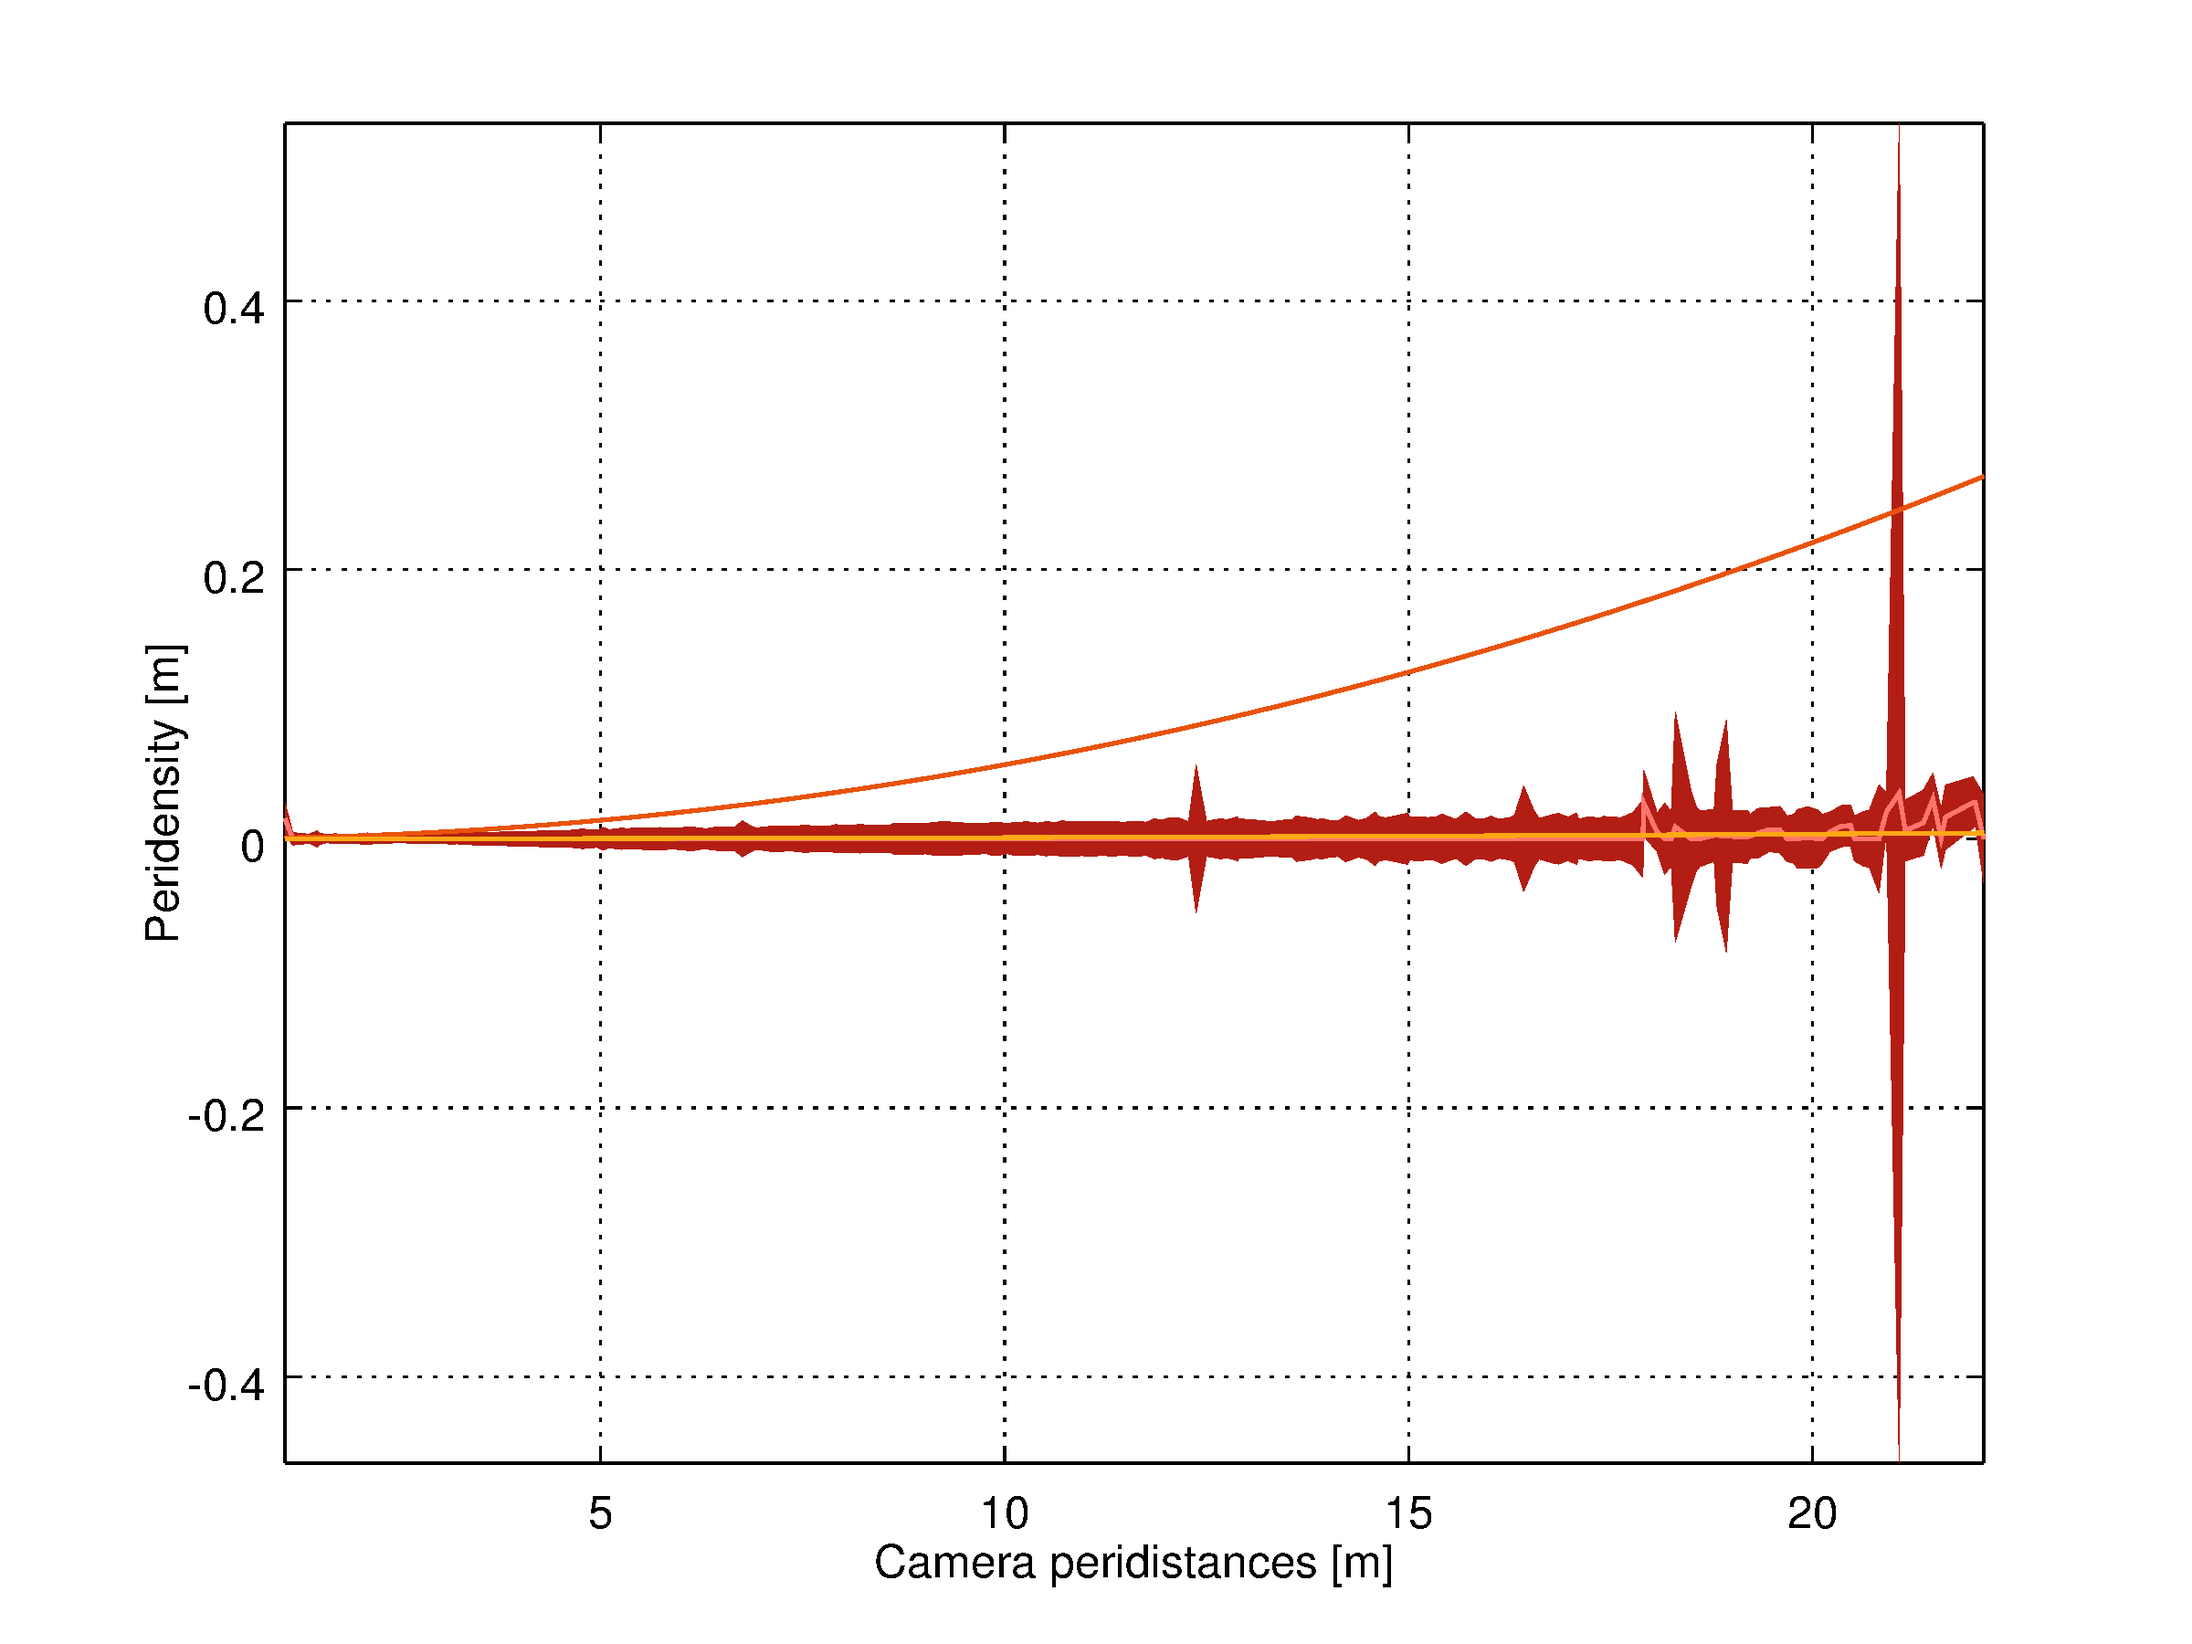
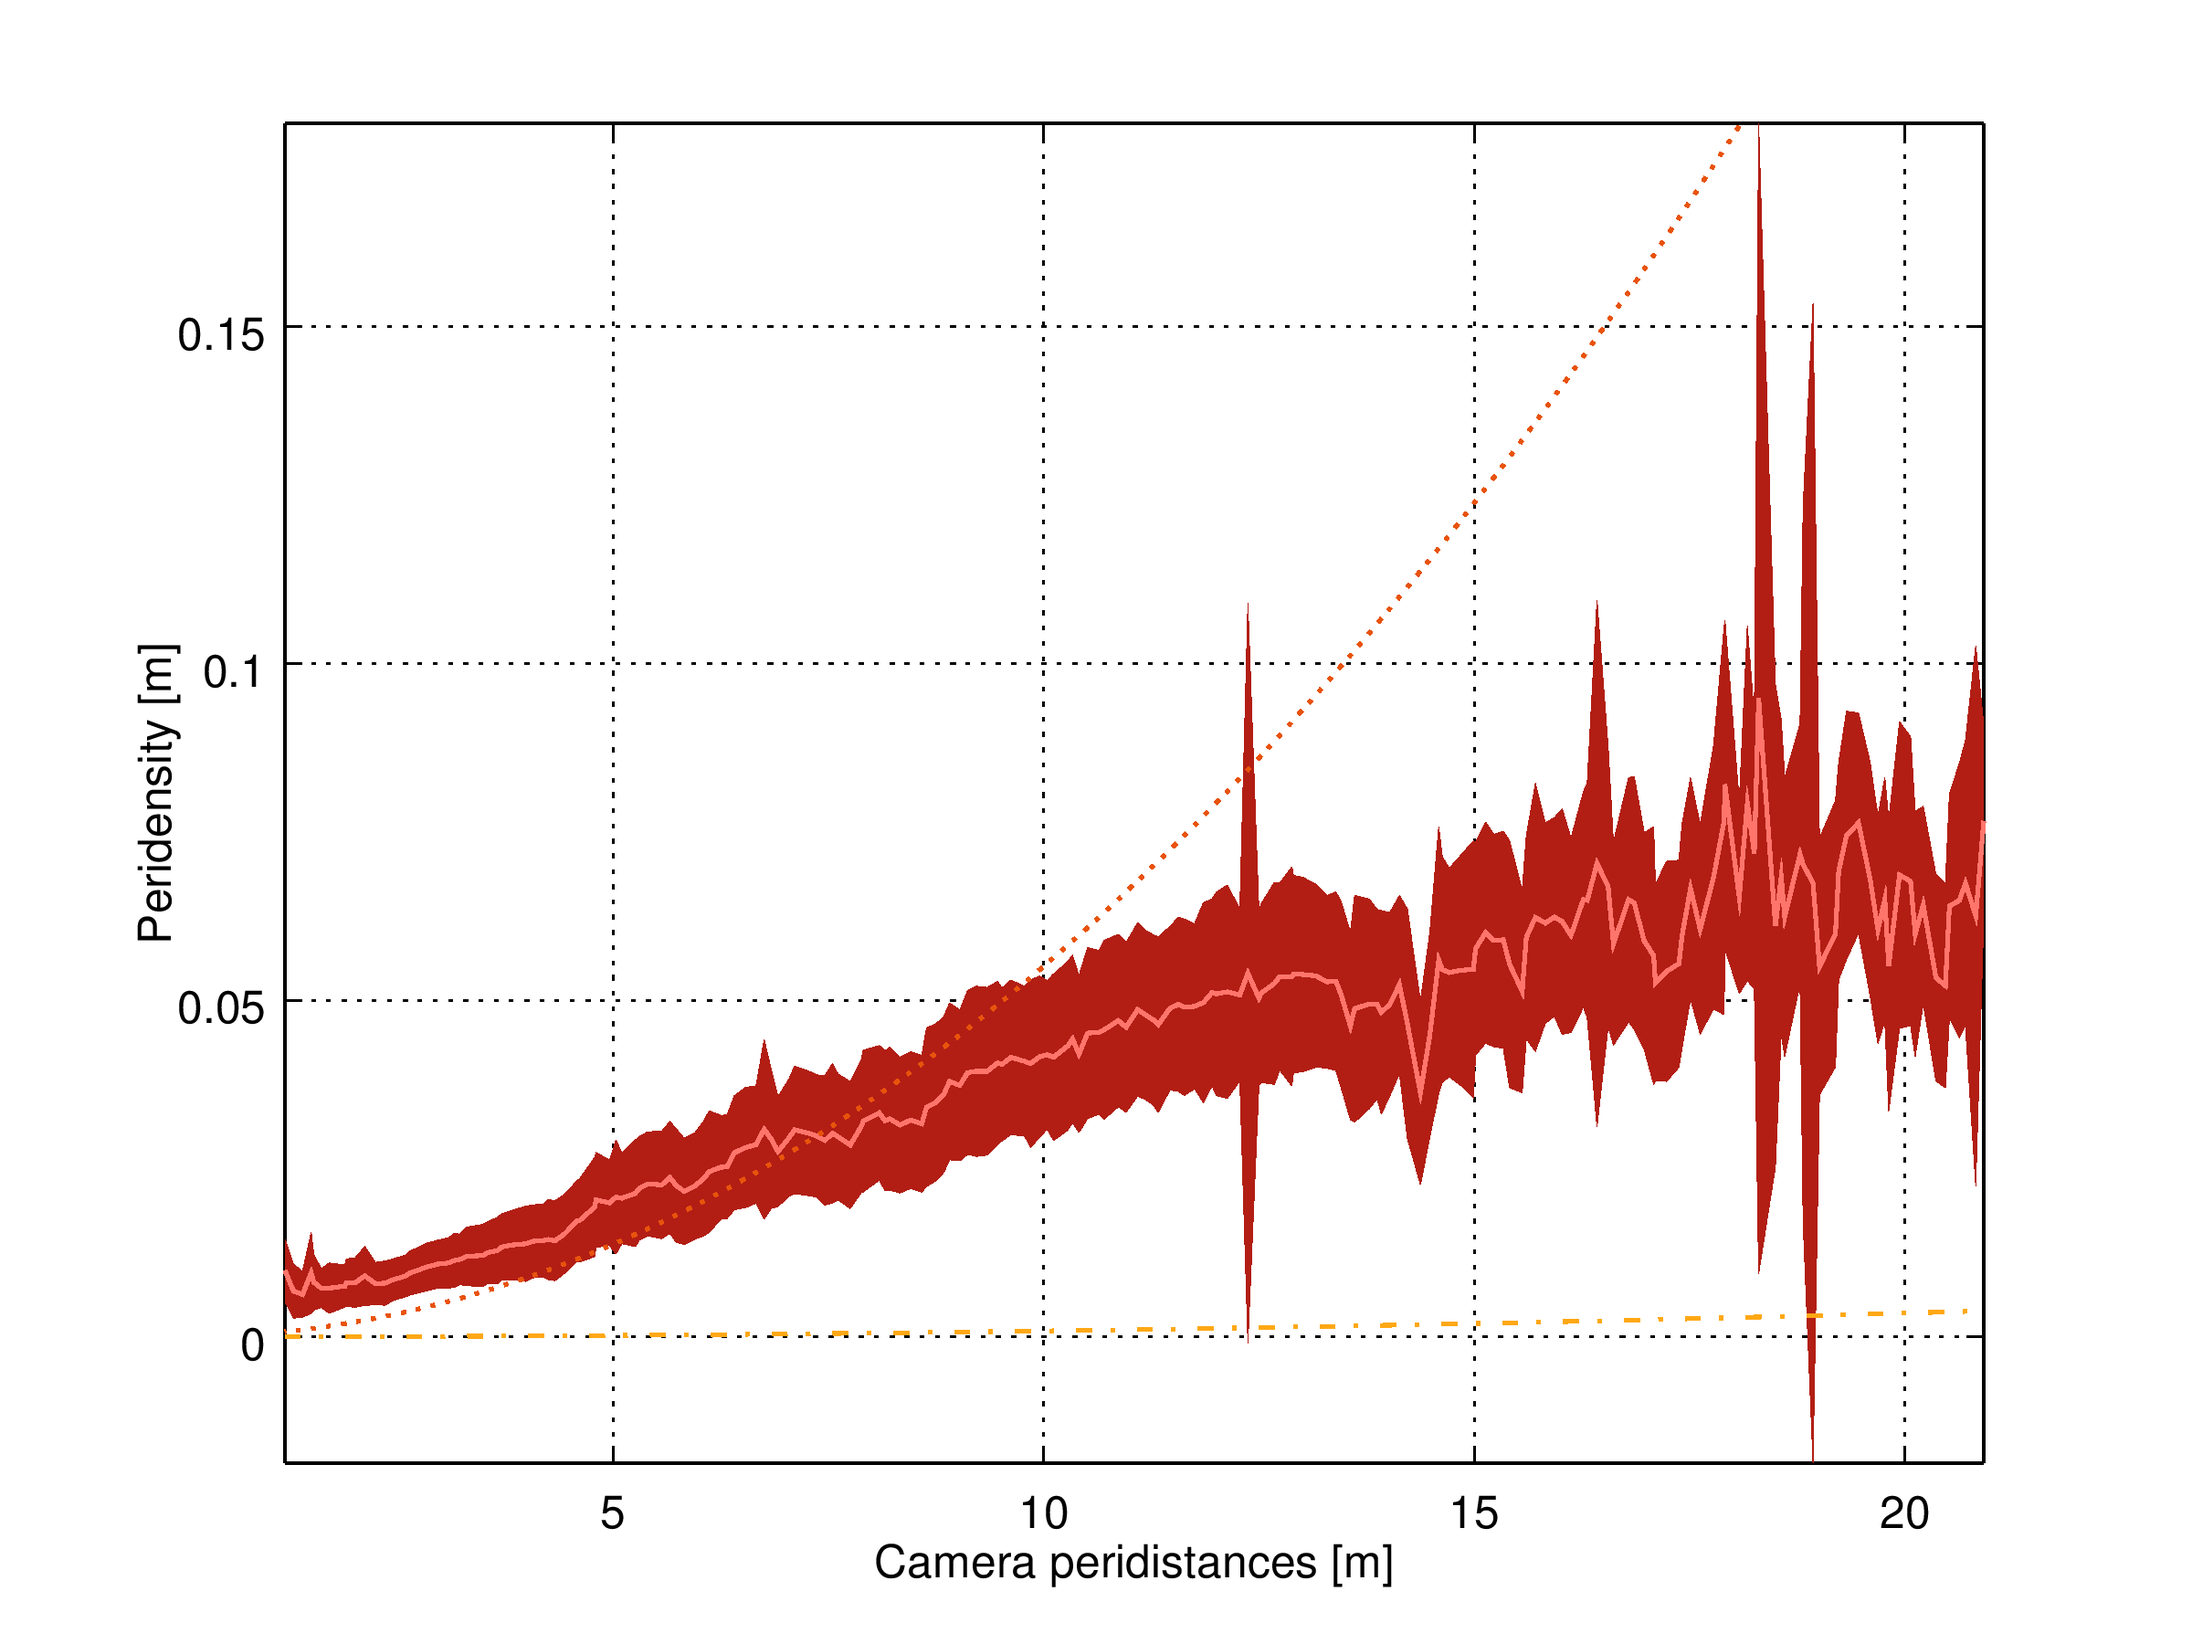
Updating peridensity figures

diff --git a/Certification/src/fl_peridensity_plot.m b/Certification/src/fl_peridensity_plot.m
@@ -73,14 +73,14 @@
         flk = 0; for fli = 1 : flSize
 
             % Detect empty bin %
-            if ( length( flStat{ fli } ) > 64 ) 
+            if ( length( flStat{ fli } ) > 16 ) 
 
                 % Update index %
                 flk += 1;
 
                 % Compute mean value of bin %
                 flPlot( flk, 1 ) = flDist{ fli };
-                flPlot( flk, 2 ) = min( flStat{ fli } );
+                flPlot( flk, 2 ) = mean( flStat{ fli } );
                 flPlot( flk, 3 ) = std ( flStat{ fli } );
 
             end
